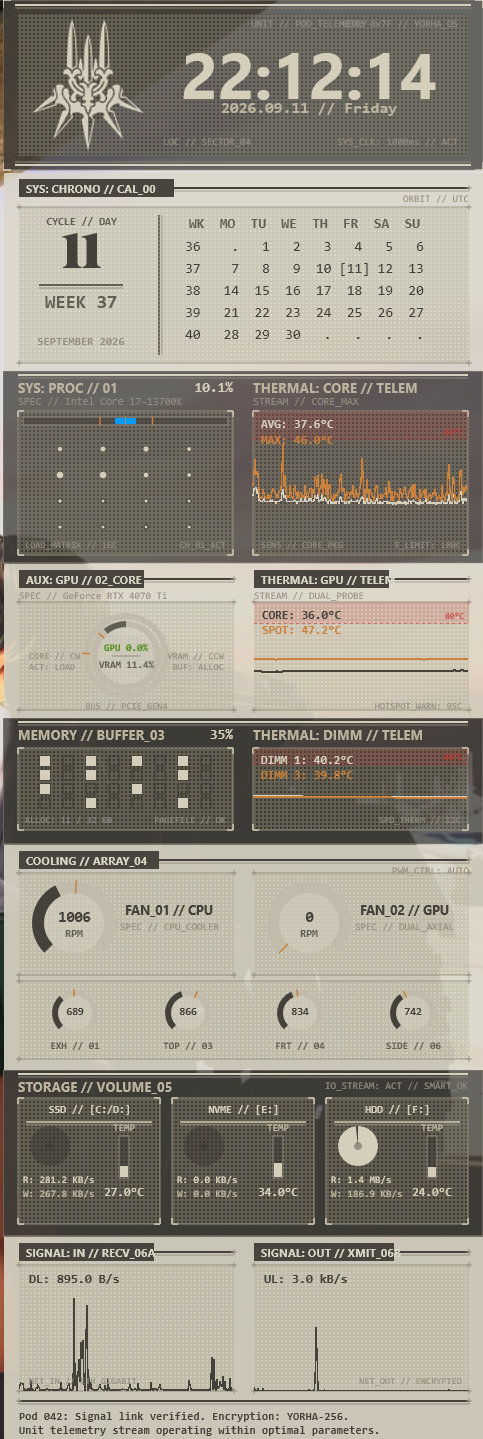
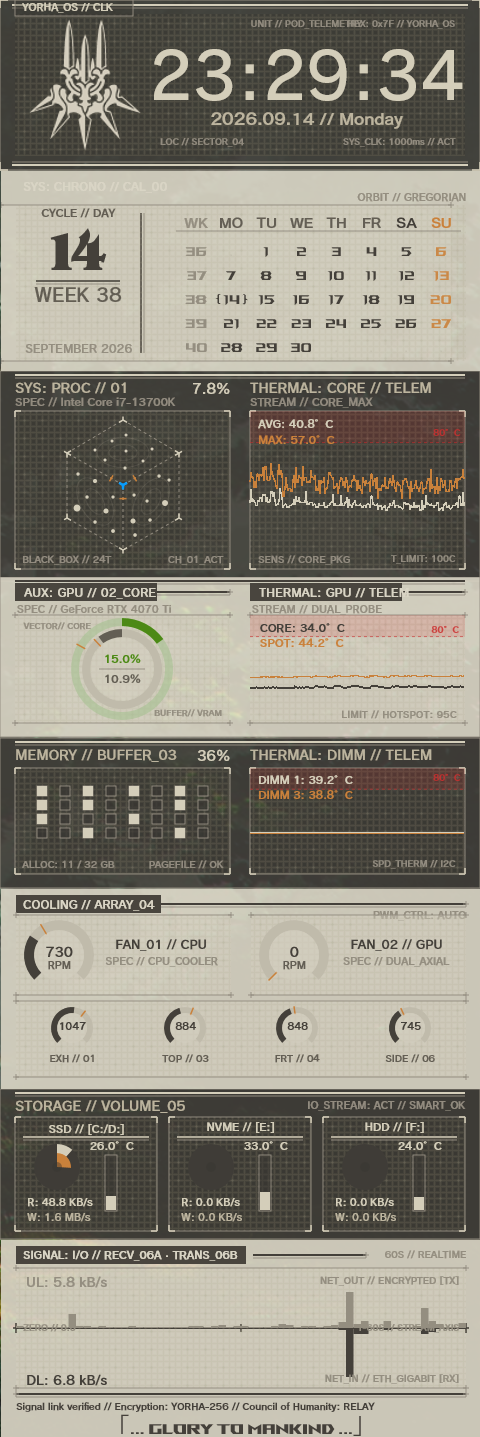
docs: add desktop preview and individual skin screenshots to README

diff --git a/README.md b/README.md
@@ -2,18 +2,24 @@
 
 A *NieR:Automata* YoRHa-themed telemetry and system monitoring skin suite for [Rainmeter](https://www.rainmeter.net/).
 
-![YoRHa Telemetry Preview](preview.png)
+![YoRHa 1440p Desktop Setup](1440p-desktop.png)
+
+<p align="center">
+  <img src="preview.png" alt="YoRHa Suite Stack Preview" width="420" />
+</p>
 
 ## Features
 
 - **Full Telemetry Suite**:
   - **Clock**: Digital military clock with date display and YoRHa interface accents.
-  - **Calendar**: Clean monthly calendar with Lua-powered grid calculations and week indicators.
+  - **Weather HUD**: 24-hour meteorological chrono-telemetry and conditions (click Clock to toggle).
+  - **Calendar**: Clean monthly calendar with Lua-powered grid calculations and ISO week indicators.
+  - **Lunar HUD**: Astronomical solar ecliptic and lunar phase cycle telemetry (click Calendar to toggle).
   - **CPU**: Multi-core telemetry, frequency metrics, load graphs, and temperature monitoring.
   - **GPU**: Core load, VRAM utilization, clocks, and thermal tracking.
-  - **RAM**: Memory usage statistics, active swap/pagefile telemetry.
-  - **Fans**: Real-time RPM tachometer gauges and cooling duty cycles.
+  - **RAM**: Memory usage statistics and active swap/pagefile telemetry.
   - **Disks**: Drive space indicators, activity meters, and storage diagnostics.
+  - **Fans**: Real-time RPM tachometer gauges and cooling duty cycles.
   - **Network**: Real-time up/down bandwidth throughput gauges and IP status.
 - **Dual Visual Themes**:
   - **Light Theme**: Authentic NieR:Automata sand-paper matte styling, smoky glass textures, dark tape banners, and horizon guideline accents.
@@ -21,6 +27,49 @@ A *NieR:Automata* YoRHa-themed telemetry and system monitoring skin suite for [R
 - **Modular Widgets**: Individual draggable widgets for each telemetry module (`Clock`, `Calendar`, `CPU`, `GPU`, `RAM`, `Fans`, `Disks`, `Network`).
 - **Profile Switcher** (`Set-Profile.ps1`):
   - Switch between `Light`, `Dark`, and `Interleaved` alternating themes across modules with a single command.
+
+---
+
+## Module Showcase
+
+### Clock & Weather HUD
+*Click anywhere on the widget or top badge to toggle between Clock and Weather modes.*
+
+| System Clock | Weather Telemetry HUD |
+| :---: | :---: |
+| ![Clock](Clock/clock.png) | ![Weather](Clock/weather.png) |
+| *Digital military clock with date & tactical accents* | *24-hour meteorological chrono-telemetry HUD* |
+
+### Tactical Calendar
+*Click anywhere on the widget to toggle between Gregorian matrix and Astronomical Lunar views.*
+
+| Gregorian Calendar | Lunar / Orbit Telemetry |
+| :---: | :---: |
+| ![Gregorian Calendar](Calendar/greogori.png) | ![Lunar Calendar](Calendar/lunar.png) |
+| *Monthly calendar grid with ISO week numbers* | *Astronomical solar orbit & lunar phases* |
+
+### Processor Telemetry
+
+| CPU Telemetry | GPU Telemetry |
+| :---: | :---: |
+| ![CPU](CPU/cpu.png) | ![GPU](GPU/gpu.png) |
+| *Multi-core load graphs, frequencies & thermals* | *Core load, VRAM utilization, clocks & thermals* |
+
+### Memory & Storage
+
+| RAM / Memory | Disks & Storage |
+| :---: | :---: |
+| ![RAM](RAM/memory.png) | ![Disks](Disks/disks.png) |
+| *Physical RAM allocation & active swap metrics* | *Drive capacity indicators, free space & activity* |
+
+### Cooling & Network
+
+| Fans & Cooling | Network I/O |
+| :---: | :---: |
+| ![Fans](Fans/fans.png) | ![Network](Network/network.png) |
+| *Real-time RPM tachometers & duty cycles* | *Real-time up/down bandwidth gauges & traffic* |
+
+---
 
 ## Requirements & Fonts
 
@@ -41,7 +90,7 @@ You can also use 100% free and open-source Google Fonts (SIL Open Font License):
 
 You can configure active font families at any time in `@Resources/Variables-Light.inc / Variables-Dark.inc` (`#FontHeader#` and `#FontClockNum#`).
 
-
+---
 
 ## Quick Start & Usage
 

diff --git a/GEMINI.md b/GEMINI.md
@@ -1,0 +1,14 @@
+# Antigravity Workspace Configuration & Rules
+
+## Project: YoRHa Rainmeter Telemetry Skins
+- **Target Platform**: Rainmeter (Windows)
+- **Shell**: PowerShell 7 (`pwsh`)
+- **Aesthetic**: NieR:Automata UI (tactical military HUD, warm muted sand-beige, dark charcoal `#2B2924`, amber accents `#E5A93C`)
+
+## File Handling & Encoding Rules
+1. **Rainmeter Encodings**: Rainmeter natively supports UTF-16 LE and UTF-8 with BOM. When creating or writing skin `.ini` and `@Resources\Variables-*.inc` files, ensure they are formatted cleanly so Rainmeter parses all special characters (e.g., `°C`, `//`, box-drawing lines) accurately.
+2. **Direct File Tools**: Prefer `write_to_file` and `replace_file_content` for editing workspace assets directly.
+
+## Terminal & Execution Guidelines
+1. **PowerShell 7 Execution**: Standard commands run natively through `pwsh` within the workspace.
+2. **Safe Workspace Operations**: Keep all commands non-destructive, scoped within the project directory, and focused on asset generation, verification, and Rainmeter refresh commands.
